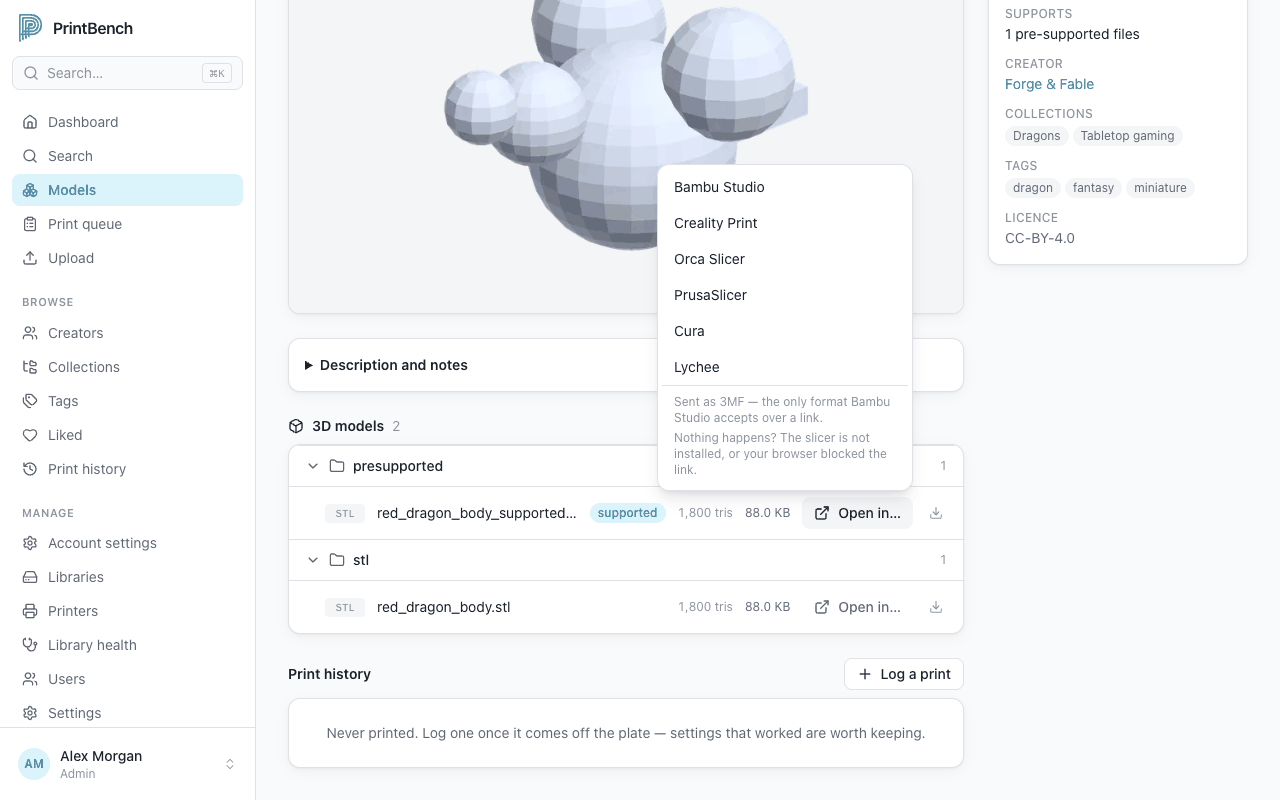
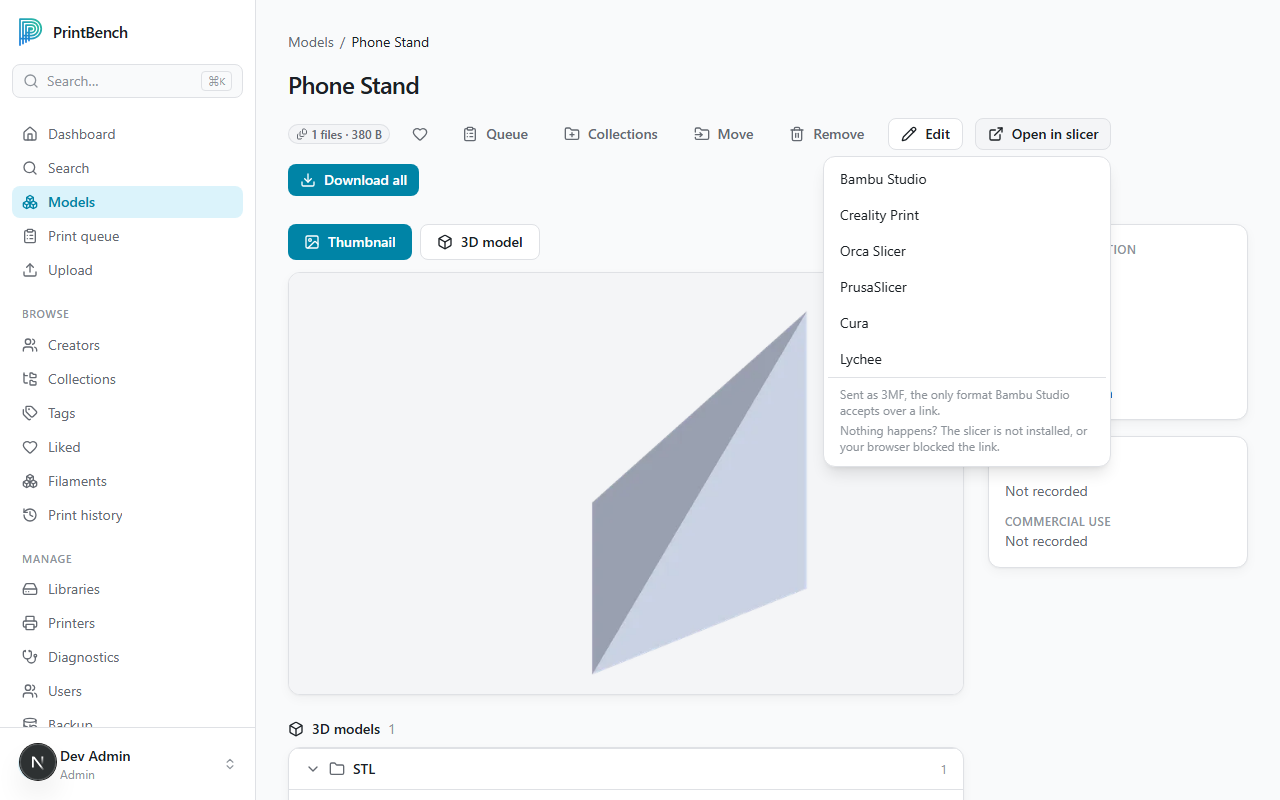
docs: recapture the Open in… screenshot at its new placement
The old image showed the menu hanging off a file row. It is now offered from
the model header as well, which is the placement worth illustrating.

diff --git a/docs/guide/slicers-and-printers.md b/docs/guide/slicers-and-printers.md
@@ -4,7 +4,7 @@ PrintBench doesn't slice and doesn't drive printers directly. It does the two th
 
 ## Open in… your slicer
 
-![The Open in… menu listing supported slicers](/images/guide/open-in-slicer.png)
+![Open in slicer at the top of a model page, listing the supported slicers](/images/guide/open-in-slicer.png)
 
 **Open in…** launches a file in a slicer with the model loaded. It works for printers with no network API at all, because the slicer takes it from there.
 
